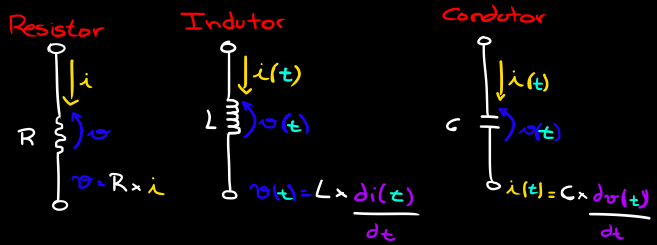
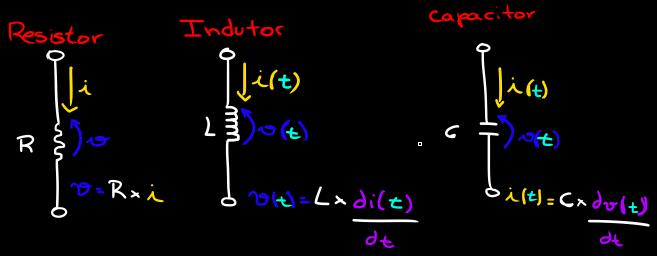
p-p

diff --git a/estudos/arquivos/Bipolos.html b/estudos/arquivos/Bipolos.html
@@ -62,7 +62,7 @@
   </math>
   </pre>
 
-  <h3>Condutor</h3>
+  <h3>Capacitor</h3>
   <pre class="conta">
     <math>
       <mrow>
@@ -83,7 +83,7 @@
   </math>
   </pre>
 
-  
+
   <h2>--------------------------------------------------------------</h2>
   <h4>OBS: O indutor e o Capacitor são elementos que acumulam energia.</h4>
   <h2>--------------------------------------------------------------</h2>
